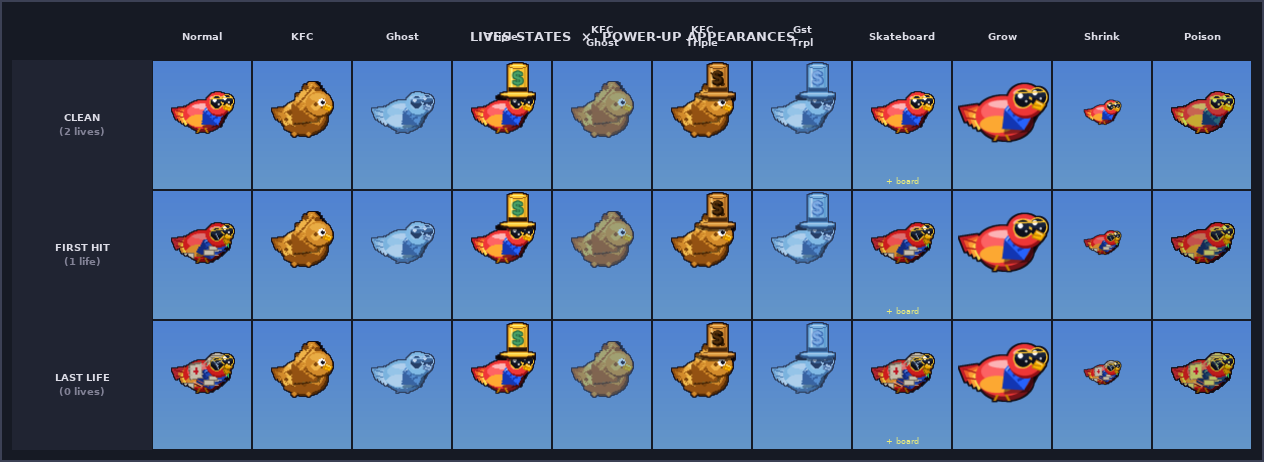
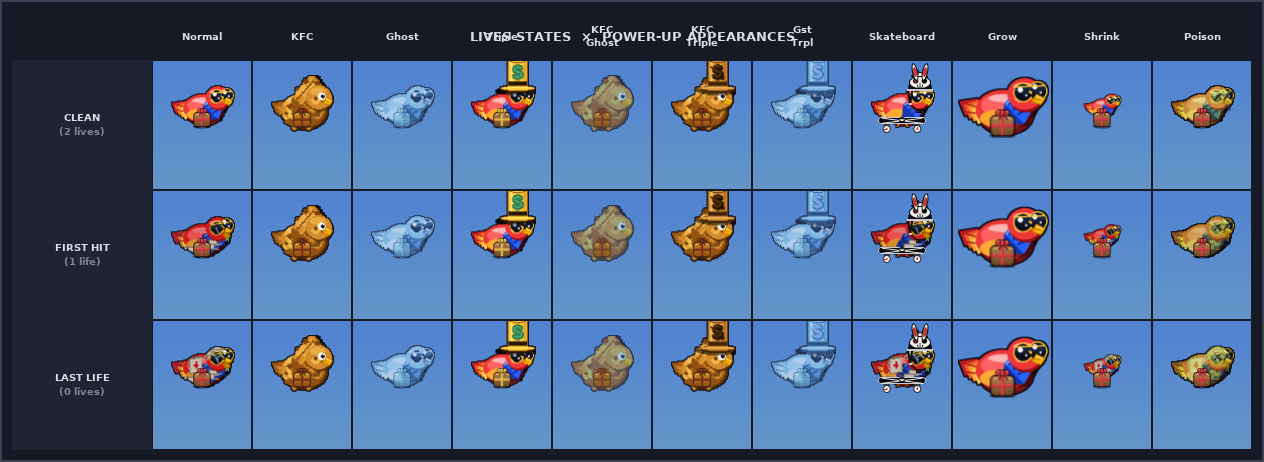
Fix grid: visible poison cross-fade, skateboard board room, config fix
Poison column: replaced the near-invisible 95%-tint approach with setting
death_fade_t to 50% of DEATH_FADE_DURATION, which shows the green dead-Pip
overlay fading in on top of the lives skin — exactly what the player sees
as poison takes effect. Much more visually distinct on the red parrot.

Skateboard column: moved bird center up to y=46 (was 52) and render into
a CELL_H+20 tall buffer so the board below the parcel isn't clipped.

game/config.py: add DAY_EXTRA_SECONDS = 0.0, needed by game/biome.py
which is now pulled in transitively through entities.py → pillar_pagodas.py
→ pagoda_ornaments.py on this branch.

Claude-Session: https://claude.ai/code/session_01SYxW5bMXxMEcZRx1arfvCN

diff --git a/docs/render_lives_powerup_grid.py b/docs/render_lives_powerup_grid.py
@@ -20,7 +20,7 @@ pygame.display.set_mode((1, 1), pygame.NOFRAME)
 
 sys.path.insert(0, os.path.dirname(os.path.dirname(os.path.abspath(__file__))))
 
-from game import parrot
+from game.entities import Bird
 
 # ── Grid geometry ─────────────────────────────────────────────────────────────
 
@@ -60,87 +60,6 @@ COLS = [
     ("Poison",    "poison"),
 ]
 
-# ── The draw cascade (from Bird.draw) reproduced here without full Bird import ─
-# Priority: kfc_ghost_triple > kfc_ghost > kfc_triple > ghost_triple >
-#           kfc > ghost > triple > grow > on_last_life > on_first_hit > clean
-# Post-cascade: poison tint, shrink scale, ghost alpha
-
-def _get_sprite(lives_state: str, effect: str, frame_idx: int = 1, tilt: float = 0.0) -> pygame.Surface:
-    """Return the final parrot sprite for (lives_state, effect) as Bird.draw would."""
-    GROW_SCALE = 1.5   # from game.config; used for grow upscale
-    SHRINK_VAL = 0.6   # fixed for the shrink demo
-
-    ghost_pulse = math.pi / 2   # peak ghost brightness
-    ghost_alpha = int(90 + 0.5 * (1 + math.sin(ghost_pulse)) * 80)  # ~170
-
-    kfc    = "kfc"    in effect
-    ghost  = "ghost"  in effect
-    triple = "triple" in effect
-    skate  = effect == "skateboard"
-    grow   = effect == "grow"
-    shrink = effect == "shrink"
-    poison = effect == "poison"
-
-    # Cascade — matches Bird.draw order (knight combos omitted; not a
-    # column in the grid).
-    if kfc and ghost and triple:
-        img = parrot.get_kfc_ghost_hat_parrot(frame_idx, tilt)
-    elif kfc and ghost:
-        img = parrot.get_kfc_ghost_parrot(frame_idx, tilt)
-    elif kfc and triple:
-        img = parrot.get_kfc_hat_parrot(frame_idx, tilt)
-    elif ghost and triple:
-        img = parrot.get_ghost_hat_parrot(frame_idx, tilt)
-    elif kfc:
-        img = parrot.get_fried_parrot(frame_idx, tilt)
-    elif ghost:
-        img = parrot.get_ghost_parrot(frame_idx, tilt)
-    elif triple:
-        img = parrot.get_hat_parrot(frame_idx, tilt)
-    elif grow:
-        img = parrot.get_grow_parrot(frame_idx, tilt)
-    elif lives_state == "last_life":
-        img = parrot.get_hurt_parrot(frame_idx, tilt)
-    elif lives_state == "first_hit":
-        img = parrot.get_first_hit_parrot(frame_idx, tilt)
-    else:
-        img = parrot.get_parrot(frame_idx, tilt)
-
-    # Skateboard: the cascade picks the parrot skin normally, but in-game
-    # the helmet+board are drawn on top and the parcel is suppressed. For
-    # the grid we show the underlying sprite (lives-state visible) so the
-    # viewer understands which parrot skin is beneath the helmet.
-    # Mark the cell with a label strip instead of trying to render the helmet
-    # outside the Bird context. In practice on the grid the underbird skin is
-    # visible — that's the accurate information.
-    if skate:
-        # Skateboard in-game: underlying parrot is the lives skin (cascade above).
-        # Re-run without skateboard flag (already done — skate is only post-effect).
-        pass  # img already set by lives cascade above
-
-    # Poison tint (BLEND_RGB_MULT over the silhouette)
-    if poison:
-        img = parrot.tint_copy(img, (180, 225, 75), 0.75)
-
-    # Grow upscale (combo grows use smoothscale)
-    if grow and (kfc or ghost or triple):
-        w, h = img.get_size()
-        img = pygame.transform.smoothscale(img, (int(w * GROW_SCALE), int(h * GROW_SCALE)))
-
-    # Shrink
-    if shrink:
-        sw, sh = img.get_size()
-        img = pygame.transform.smoothscale(
-            img, (max(1, int(sw * SHRINK_VAL)), max(1, int(sh * SHRINK_VAL))))
-
-    # Ghost alpha fade
-    if ghost:
-        img = img.copy()
-        img.set_alpha(ghost_alpha)
-
-    return img
-
-
 # ── Helpers ───────────────────────────────────────────────────────────────────
 
 def fill_sky(surf: pygame.Surface):
@@ -157,20 +76,72 @@ def make_font(size: int, bold: bool = False) -> pygame.font.Font:
     return pygame.font.SysFont("dejavusans,arial,sans", size, bold=bold)
 
 
+BIRD_Y      = 46   # bird center y within cell — pushed up so board/parcel fit
+BOARD_EXTRA = 20   # extra cell height added when skateboard is active
+
+def configure_bird(b: Bird, lives_state: str, effect: str):
+    """Apply lives-state flags and power-up flags to a fresh Bird."""
+    from game.config import DEATH_FADE_DURATION
+    b.frame_t  = 1.0
+    b.x        = CELL_W / 2
+    b.y        = BIRD_Y
+    b.lives_flicker_visible = True
+
+    if lives_state == "first_hit":
+        b.on_first_hit = True
+    elif lives_state == "last_life":
+        b.on_last_life = True
+
+    if effect == "kfc":
+        b.kfc_active = True
+    elif effect == "ghost":
+        b.ghost_active = True
+        b.ghost_pulse  = math.pi / 2
+    elif effect == "triple":
+        b.triple_active = True
+    elif effect == "kfc_ghost":
+        b.kfc_active   = True
+        b.ghost_active = True
+        b.ghost_pulse  = math.pi / 2
+    elif effect == "kfc_triple":
+        b.kfc_active    = True
+        b.triple_active = True
+    elif effect == "ghost_triple":
+        b.ghost_active  = True
+        b.ghost_pulse   = math.pi / 2
+        b.triple_active = True
+    elif effect == "skateboard":
+        b.skateboard_active = True
+    elif effect == "grow":
+        b.grow_active = True
+    elif effect == "shrink":
+        b.shrink_active = True
+        b.shrink_scale  = 0.6
+    elif effect == "poison":
+        b.poison_active = True
+        b.poison_t      = 0.5
+        # Show the death cross-fade at 50% — the most visually distinct
+        # indicator of the poison effect (green dead-parrot fading in on
+        # top of the lives skin, exactly as the player sees it).
+        b.death_fade_t  = DEATH_FADE_DURATION * 0.5
+
+
 def render_cell(lives_state: str, effect: str) -> pygame.Surface:
-    cell = pygame.Surface((CELL_W, CELL_H))
+    # Skateboard board extends below the parcel y-offset; give it extra height
+    # so the wheels aren't clipped, then crop back to CELL_H for the canvas.
+    tall = CELL_H + (BOARD_EXTRA if effect == "skateboard" else 0)
+    cell = pygame.Surface((CELL_W, tall))
     fill_sky(cell)
 
-    img = _get_sprite(lives_state, effect)
-    r = img.get_rect(center=(CELL_W // 2, 52))
-    cell.blit(img, r.topleft)
+    b = Bird()
+    configure_bird(b, lives_state, effect)
+    b.draw(cell, 0, 0)
 
-    # Skateboard label strip
-    if effect == "skateboard":
-        font_tiny = make_font(8)
-        note = font_tiny.render("+ board", True, (240, 240, 120))
-        cell.blit(note, note.get_rect(centerx=CELL_W // 2, bottom=CELL_H - 4))
-
+    if tall > CELL_H:
+        # Crop to standard height — board is fully drawn within the tall buffer.
+        out = pygame.Surface((CELL_W, CELL_H))
+        out.blit(cell, (0, 0))
+        return out
     return cell
 
 

diff --git a/game/config.py b/game/config.py
@@ -391,3 +391,5 @@ PIPE_SPACING_NEWBIE  = 370
 
 SAVE_FILE = "skybit_save.json"
 SCORES_FILE = "skybit_scores.json"
+
+DAY_EXTRA_SECONDS = 0.0
